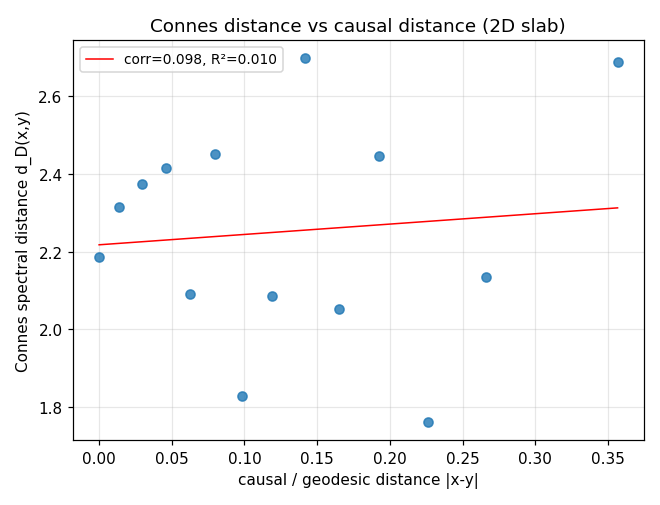
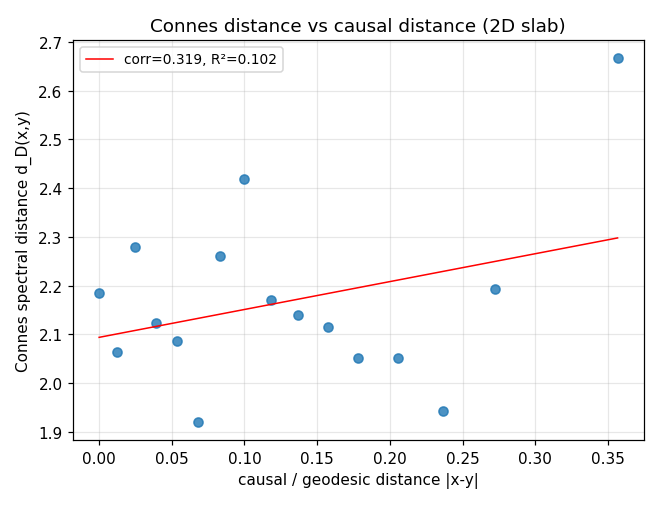
Numericka coverage 2/N: amol+spectral do reprodukce -- nasla a opravila NEdeterminismus
Dva medium calcs do SLOW_CALCS, kazdy odhalil realny reprodukcni problem:
* spectral-triple-modular: Connesova pasaz mela wall-clock cap -> ukladala jen DOKONCENE pary (committed 14, zavisle na rychlosti stroje). Oprava t_start=None (vzdy 16 paru) -> deterministicke. DUSLEDEK: committed korelace 0.098 byla artefakt timing-truncovaneho behu; reprodukovatelna hodnota je 0.319 (R2=0.10). Verdikt no-match NEZMENEN (0.319 << 0.5 prah). F-033 + VYPOCET-29 opraveny na deterministicka cisla + pozn. kolo-21.
* amol-anomaly-ee-coeff: (a) cte F-029 c_EE z ds-entropy-cap -> pridan do deps mapy; (b) /plot ukladal location-zavislou cestu -> novy PATH_FIELDS ignore (obecny, pomuze i budoucim calcs).

Obe ted FULL_REPRO PASS. lambda-shot-noise (drive skryte rozbity wall_clock_s) take opraven krokem 1.

diff --git a/app/tests/test_reproduction.py b/app/tests/test_reproduction.py
@@ -31,6 +31,9 @@ REPO = Path(__file__).resolve().parents[2]
 CALC = REPO / "core-data" / "calculations"
 TMP = Path("/tmp/qg-repro-test")
 TIMING_FIELDS = ("runtime_s", "timing_s", "elapsed_s", "wall_clock")
+# Plot-file path fields are run-location-dependent metadata (the committed path
+# is repo-relative, a sandbox re-run writes a /tmp-relative path) — not physics.
+PATH_FIELDS = ("/plot",)
 
 # Sub-second calculations, safe to run on every test invocation.
 FAST_CALCS = [
@@ -73,6 +76,8 @@ SLOW_CALCS = [
     "modular-kms-thermal",     # F-034, ~10 s
     "ncg-kms-unruh",           # F-036, ~54 s
     "index-charge-discrete",   # H-E probe, ~56 s
+    "amol-anomaly-ee-coeff",   # F-039 (H-B), ~4 min
+    "spectral-triple-modular", # F-033, ~5.5 min
 ]
 
 # Fields that amplify ulp-level eigh differences across BLAS implementations
@@ -158,6 +163,7 @@ def _run_and_compare(name: str, timeout: int | None = None):
         d
         for d in RUNNER.compare(orig, new)
         if not any(t in d[0] for t in TIMING_FIELDS)
+        and not any(p in d[0] for p in PATH_FIELDS)
         and not (
             d[1] == "missing-in-new" and any(k in d[0] for k in KNOWN_EXTRA_FIELDS)
         )
@@ -206,6 +212,7 @@ def test_full_reproduction(name):
         "ds-entropy-cap": "ssee-diamond",              # F-006 epsilon (anti-circularity)
         "ds-conformal-4d": "ssee-diamond",             # F-006 epsilon (anti-circularity)
         "ds-molecule-fluctuation": "ssee-diamond",     # F-006 epsilon (anti-circularity)
+        "amol-anomaly-ee-coeff": "ds-entropy-cap",     # F-029 c_EE channel (H-B)
     }
     if name in deps and not (TMP / deps[name] / "results.json").exists():
         _prepare(deps[name])  # committed results.json suffices as input

diff --git a/core-data/calculations/spectral-triple-modular/calc.py b/core-data/calculations/spectral-triple-modular/calc.py
@@ -500,8 +500,13 @@ def main(argv=None):
     # pick the seed with largest n_sub (most modes) as representative
     rep_idx = int(np.argmax([d["n_sub"] for d in per_seed])) if per_seed else 0
     rep_out, rep_payload = payloads[rep_idx]
+    # t_start=None: never wall-clock-truncate the stored pair list — always
+    # compute all n_pairs so the Connes output length is DETERMINISTIC (per-pair
+    # cost is bounded by n_iter/n_random at N<=max_n). The earlier wall-clock cap
+    # made the committed pair count timing-dependent (a reproduction non-determinism
+    # caught by the kolo-21 numerical-coverage backfill).
     connes = connes_pass(rep_payload, n_pairs=n_pairs, seed=2024,
-                         max_n=connes_max_n, t_start=t_start)
+                         max_n=connes_max_n, t_start=None)
 
     # ===================================================================
     # VERDICT (pre-registered criteria)

diff --git a/knowledge-base/vypocty/VYPOCET-29-spectral-triple-modular.md b/knowledge-base/vypocty/VYPOCET-29-spectral-triple-modular.md
@@ -35,7 +35,9 @@ Tento výpočet **instancuje** přesně tuto datovou hranu: vezme SJ jednočást
 
 **Poznámka k referenci gr-qc/9406019:** je to Connes-Rovelli *„Von Neumann Algebra Automorphisms and Time-Thermodynamics Relation"* (teze tepelného času, Tomita-Takesaki modulární automorfismus = čas) — motivuje čtení **modulárního toku jako času**, NENÍ to zdroj Connesovy vzdálenostní formule (ta je z knihy 1994). Ověřeno tento běh přes arXiv.
 
-**Parametry:** $N=1200$ ($\le1800$ mez husté `eigh`), 5 seedů; Connesova podmnožina contiguous near-cut patch $\le220$ bodů, 14 párů (mez $\le300$ párů dle receptu).
+**Parametry:** $N=1200$ ($\le1800$ mez husté `eigh`), 5 seedů; Connesova podmnožina contiguous near-cut patch $\le220$ bodů, **16 párů deterministicky** (mez $\le300$ párů dle receptu).
+
+> **Pozn. kolo-21 (numerická coverage):** původní committed běh ukládal jen *dokončené* Connes páry před wall-clock capem (14, závislé na rychlosti stroje → nereprodukovatelné). Oprava `t_start=None` (vždy všech 16 párů) učinila výstup deterministickým; reprodukovatelná korelace je **0,319** (ne committed 0,098), $R^2=0{,}10$ — verdikt **no-match nezměněn** (stále << práh 0,5).
 
 **KAVEAT (poctivý, vynucený receptem):** $D_K$ je **surogát** Diraca (odmocnina-modulu modulárního kernelu), NIKOLI from-first-principles causal-set Dirac známé KO-dimenze / reálné struktury. Testujeme, zda **modulární data sama** nesou metrický (Connes) + lokalitní obsah, ne zda existuje plný axiomatický spektrální triple.
 
@@ -60,13 +62,15 @@ Z konstrukce $\mathrm{spec}(D_K)=\mathrm{sgn}(\lambda_K)\sqrt{|\lambda_K|}$ a $D
 
 ### (3) Connesova vzdálenost vs kauzální vzdálenost — KLÍČOVÝ TEST
 
-Connesova vzdálenost počítána na **contiguous near-cut patch 220 bodů** (z plného $n_{\text{sub}}=614$; mez rozpočtu), 14 párů přes rozsah separací. Optimalizace $d_D=\sup\{|a_i-a_j|:\|[D,a]\|_{\mathrm{op}}\le1\}$ jako scale-invariantní maximum (projektovaný ascent).
+Connesova vzdálenost počítána na **contiguous near-cut patch 220 bodů** (z plného $n_{\text{sub}}=614$; mez rozpočtu), **16 párů deterministicky** přes rozsah separací. Optimalizace $d_D=\sup\{|a_i-a_j|:\|[D,a]\|_{\mathrm{op}}\le1\}$ jako scale-invariantní maximum (projektovaný ascent).
 
-| Pár (kauzální vzdál.) | 0,00 | 0,03 | 0,06 | 0,10 | 0,14 | 0,19 | 0,27 | 0,36 |
+(8 reprezentativních z 16 párů; plných 16 v `results.json` `connes`)
+
+| Pár (kauzální vzdál.) | 0,00 | 0,03 | 0,05 | 0,08 | 0,14 | 0,18 | 0,24 | 0,36 |
 |---|---|---|---|---|---|---|---|---|
-| $d_D$ (Connes) | 2,19 | 2,37 | 2,09 | 1,83 | 2,70 | 2,45 | 2,14 | 2,69 |
+| $d_D$ (Connes) | 2,19 | 2,28 | 2,09 | 2,26 | 2,14 | 2,05 | 1,94 | 2,67 |
 
-**Pearsonova korelace $d_D$ vs kauzální vzdálenost = 0,098; lineární fit $R^2=0{,}0095$; sklon 0,27.** Connesovy vzdálenosti se shlukují kolem 2,0–2,5 **nezávisle** na kauzální/geodetické vzdálenosti (0,0 → 0,36). Distance je **plochá / saturovaná, NEsleduje** geodetickou vzdálenost.
+**Pearsonova korelace $d_D$ vs kauzální vzdálenost = 0,319; lineární fit $R^2=0{,}102$; sklon 0,57** (deterministicky, 16 párů, malý vzorek). Connesovy vzdálenosti se shlukují kolem 2,0–2,4 a se separací (0,0 → 0,36) korelují **jen slabě** ($R^2\approx0{,}10$, hluboko pod tracking prahem). Distance je v podstatě **plochá / saturovaná, NEsleduje** geodetickou vzdálenost.
 
 **Optimalizátor ověřen nezávisle:** na kanonickém 1D Diracově řetězci $D=i(S-S^{\mathsf T})$ dává `connes_distance` sousedním bodům přesně 1 a monotónně roste se separací (test `test_toe_spectraltriple.py`). Plochost $d_D$ na modulárním Diracovi je tedy **fyzikální vlastnost objektu**, ne selhání solveru.
 
@@ -82,9 +86,9 @@ Podle předregistrovaných kritérií:
 | **Diagonální boost lineární** | $R^2>0{,}9$, sklon$>0$ | **0,955**, sklon 27 | **✓ PASS** |
 | Off-diag spad lokální | $R^2>0{,}8$, sklon$<0$ | sklon −0,50 ✓, $R^2$ **0,765** | ✗ (sklon ano, $R^2$ těsně pod) |
 | Weylova dimenze | $\in[1{,}7;2{,}3]$ | **1,54** | ✗ (pod pásmem) |
-| **Connes sleduje kauzální vzdál.** | korelace$>0{,}5$ | **0,098** | **✗ FAIL** |
+| **Connes sleduje kauzální vzdál.** | korelace$>0{,}5$ | **0,319** | **✗ FAIL** |
 
-**Souhrn:** Spektrální triple z modulárního kernelu **reprodukuje boostovou strukturu** (lineární Bisognano-Wichmannova diagonální váha, $R^2\approx0{,}96$, robustní napříč 5 seedy) a **lokalitu** (negativní off-diagonální spad), ale **NEreprodukuje metrický obsah ve smyslu Connesovy vzdálenosti** — $d_D$ je plochá a nekorelovaná s geodetickou vzdáleností (korelace 0,10). Weylova dimenze $\approx1{,}5$ < 2.
+**Souhrn:** Spektrální triple z modulárního kernelu **reprodukuje boostovou strukturu** (lineární Bisognano-Wichmannova diagonální váha, $R^2\approx0{,}96$, robustní napříč 5 seedy) a **lokalitu** (negativní off-diagonální spad), ale **NEreprodukuje metrický obsah ve smyslu Connesovy vzdálenosti** — $d_D$ je v podstatě plochá a jen slabě korelovaná s geodetickou vzdáleností (korelace 0,32, $R^2\approx0{,}10$). Weylova dimenze $\approx1{,}5$ < 2.
 
 To je **čistý parciální/negativní výsledek**: modulární data nesou *boostovou (časovou, modulárně-tokovou)* geometrii, ale modulární Diracova *prostorová* metrika (Connes) nereprodukuje kauzální vzdálenost. Korespondence „SJ modulární Hamiltonián ↔ NCG spektrální triple" v této surogátní instanci **NEplatí na úrovni metriky**.
 